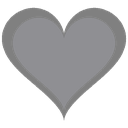
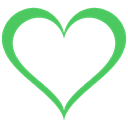
HUD: green hearts, lost ones an outline
Claude-Session: https://claude.ai/code/session_01Eixp3MaR2R82VtNQ8AyK7x

diff --git a/tools/art/hearts.py b/tools/art/hearts.py
@@ -1,8 +1,10 @@
 #!/usr/bin/env python3
-"""Draws the HUD's heart pictures (BlockPlanet's own art; the owner's design,
-2026-11-18: simple heart-shaped containers, white border, red inside, like the
-square tiles they replace). Writes assets/ui/hearts/heart.png and
-heart-lost.png. Run from the repository root: python3 tools/art/hearts.py
+"""Draws the HUD's heart pictures (BlockPlanet's own art). The owner's design,
+2026-11-23 (was red with a white border, 2026-11-18): flat like the blocks, no
+outline; a heart held is solid green (the drop bar's green, #4cc860), a lost
+one an empty heart, only its green outline (as in Zelda). Writes
+assets/ui/hearts/heart.png and heart-lost.png. Run from the repository root:
+python3 tools/art/hearts.py
 """
 import math
 from pathlib import Path
@@ -44,6 +46,7 @@ def draw(fill, border, path):
 if __name__ == "__main__":
     out = Path("assets/ui/hearts")
     out.mkdir(parents=True, exist_ok=True)
-    draw((0xE0, 0x28, 0x38, 255), (0xF8, 0xF8, 0xF8, 255), out / "heart.png")
-    draw((0x20, 0x20, 0x28, 0x80), (0x80, 0x80, 0x80, 255), out / "heart-lost.png")
+    green = (0x4C, 0xC8, 0x60, 255)
+    draw(green, green, out / "heart.png")
+    draw((0, 0, 0, 0), green, out / "heart-lost.png")
     print("wrote", out / "heart.png", "and", out / "heart-lost.png")

diff --git a/CHANGES-SINCE-BLOCKSPHERE.md b/CHANGES-SINCE-BLOCKSPHERE.md
@@ -853,3 +853,7 @@ Each power-up's use was recorded beside the original's and stepped through (`doc
 - Everything built for levels (the merged four, levels 1 to 3, the Missile Barrage's launcher and wide blast, Dynamite's bigger holes and outer ring, the set order per stage by the sphere's depth) stays in the code behind **`BLOCKPLANET_POWERUP_LEVELS=1`**, as research for later upgrades (`tetrisphere::powerup_models::levels_on()`), with the measurements in docs/research/blockplanet-score-and-magic.md.
 - The test's number pad (BlockPlanet.bat's option 2) gives the six directly: 1 the Firecracker, 2 Dynamite, 3 the Magnet, 4 the Atom, 5 the Bomb, 6 the Ray Gun. Checked: the Firecracker, the Bomb and the Ray Gun fired, each with its own icon and model.
 - **One change from the original (the owner): losing a life keeps the held power-up.** Checked first (Casual 1:1): a drop with no match took a heart (3 to 2) and emptied the power-up slot in the same moment, no blast. Now, each frame, if a heart has just gone and the held power-up with it without its button being pressed, it is put back (checked: the Firecracker kept through five lost hearts). `BLOCKPLANET_LIFE_LOSES_POWERUP=1` keeps the original rule.
+
+## 2026-11-23: Green hearts
+
+- The owner: the blocks are simple shapes without outlines, but the hearts still had a white one. A heart held is now solid green, no outline (the drop bar's green, #4cc860); a lost heart is an empty heart, only its green outline (as in Zelda). Same size and places as before (`tools/art/hearts.py`, `assets/ui/hearts`, `assets/ui/hud.rcss`); VS's hearts too.
